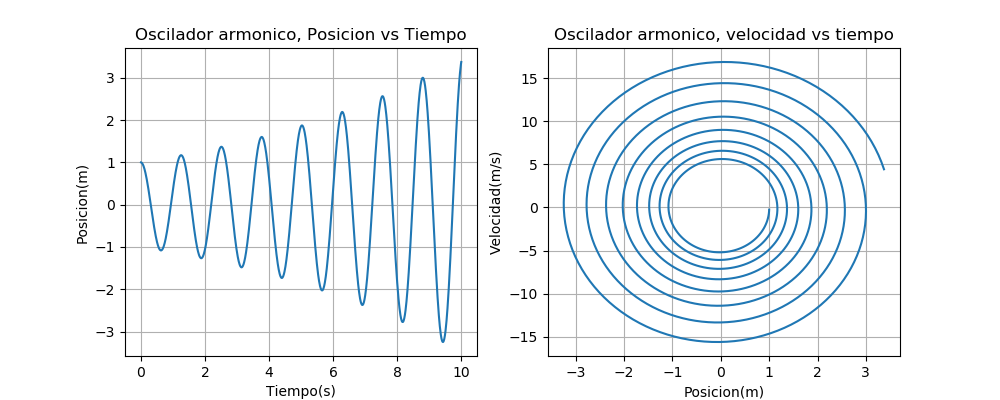
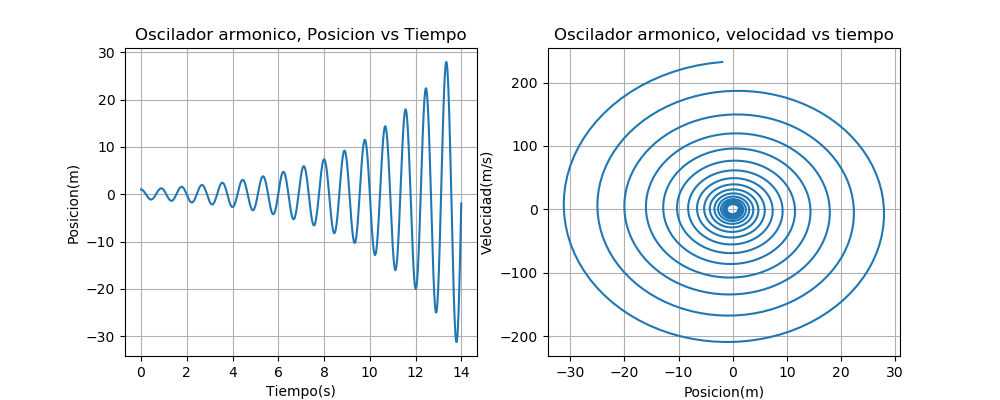
Respondo las preguntas en el README y edito la k para que sea = 100

diff --git a/lab14_Parte2.cpp b/lab14_Parte2.cpp
@@ -3,12 +3,12 @@
 #include <fstream>
 using namespace std;
 
-const double k = 50;
+const double k = 100;
 const double m = 2;
 const double lambda = 1;
 const double G = 0.7;
 const double dt = 0.01;
-const double tf = 10.0;
+const double tf = 14.0;
 
 double velocidady(double t,double y, double vy); 
 double aceleraciony(double t,double y, double vy);

diff --git a/README.md b/README.md
@@ -2,14 +2,20 @@
 Laboratorio Métodos Computacionales - Segundo Semestre 2019
 [![Binder](http://mybinder.org/badge_logo.svg)](http://beta.mybinder.org/v2/gh/ComputoCienciasUniandes/FISI2029-201920/master)
 
-Material del curso de Laboratorio de Métodos Computacionales de Uniandes
+### Respuesta a las preguntas
 
-Universidad de los Andes  
-Vigilada Mineducacion Reconocimiento como Universidad: Decreto 1297 del 30 de mayo de 1964.   
-Reconocimiento personeria juridica: Resolucion 28 del 23 de febrero de 1949 Minjusticia.   
-Carrera 1 18A-10, Bloque Ip. Bogota - Colombia. A.A. 4976-12340.   
-Telephone +571 3324500.  
-Fax +571 3324516 
-Universidad de los Andes  
-Facultad de Ciencias 
-Departamento de Física 
+1. Con lambda igual a 1, se obtiene la ecuación para un oscilador armónico.
+
+2. Se esperan resultados de las formas de seno y cosenos.
+
+3. Se encuentra dentro del archivo .cpp y guardados en euler.dat. 
+
+4. La función tiene un comportamiento similar al del seno, sin embargo, la amplitud va aumentando a medida que el tiempo avanza, lo cual no es congruente con un modelo de oscilador armónico.
+
+5. Con el método de Rk4, las amplitudes de la gráfica de posición contra el tiempo permanecen constantes, y la variación de la velocidad debe ser ciclica, regresar siempre a los mismos valores. Es un comportamiento sinoidal perfecto, mientras que con el método de Euler ambas amplitudes varian, dando como resultado una mala e incongruente solución a la ODE, ya que la velocidad disminuye hasta llegar a 0 mientras que la posicion incrementa al infinito. Por lo tanto, el método de Rk4 es mucho más preciso que el método de Euler.
+
+6. Se espera obtener un comportamiento invariante por parte de ambas gráficas, ya que este es el comportamiento para un oscilador armónico. Es decir, para la gráfica de posicion vs tiempo la gráfica debe tener una amplitud constante y repetirse infinitamente en el tiempo, y para la gráfica de velocidad vs posicion, se debe tener una figura simetrica y cerrada, con un radio constante, ya que la velocidad debe ser ciclica en un oscilador armonico. Todo esto lo cumple el método de Rk4, demostrando que es muy preciso, mientras que el método de euler no cumple ninguna de las dos condiciones, la posición incremente y se sale de lo que se esperaria de un armonico, ya que debería siempre hacer un recorrido ciclico y recorrer las mismas distancias, y la velocidad disminuye, creando una espiral.
+
+7. Al agregar una fuerza de fricción espero obtener un comportamiento de oscilador armónico amortiguado, que con el pasar del tiempo la posición llegará a ser cero, debido a que su velocidad disminuye hasta llegar a 0 por efecto de la friccion. Esto se evidencia en las graficas de OsciladorRk4Friccion donde la posicion disminuye con el tiempo, y la velocidad disminuye hasta llegar a 0 en forma de espira.
+
+8. Al incrementar el valor de lambda se pierde la posibilidad de ser resuelta por estos métodos, ya que son para ODE, por lo cuál los datos obtenidos con lambdas mayores a 1 no son congruentes y no deberían ser soluciones reales.
